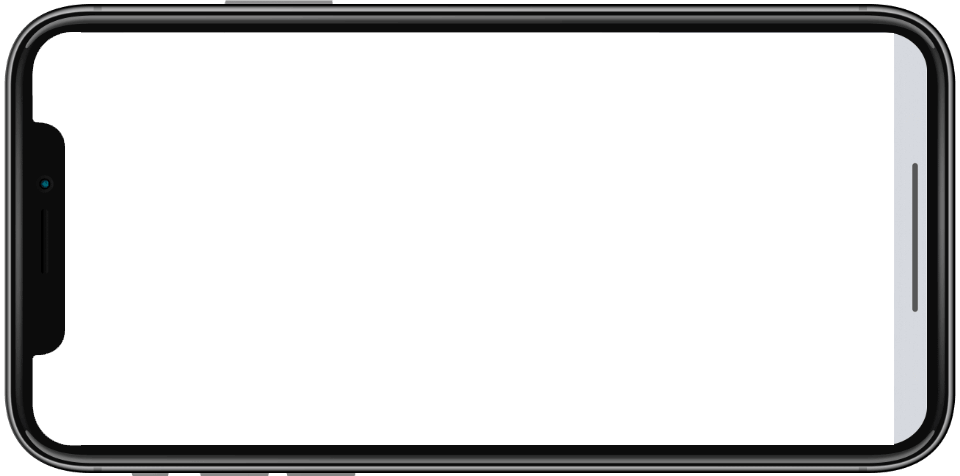
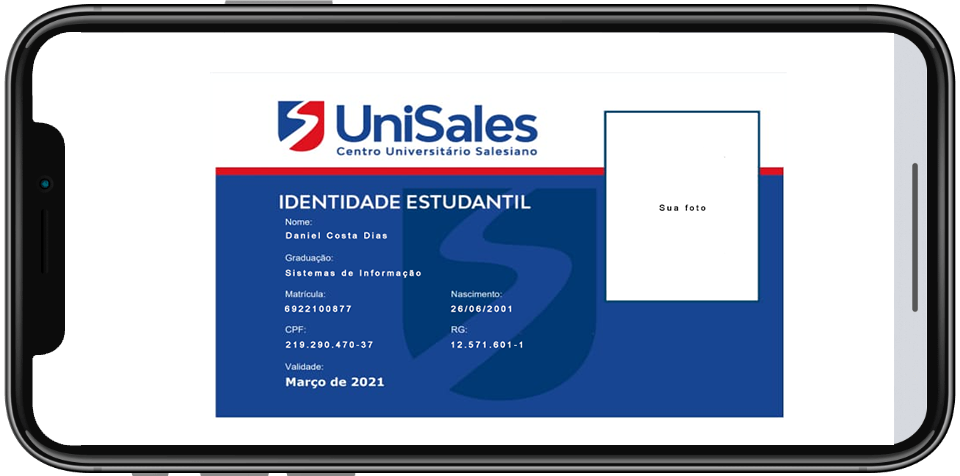
Device horizontal finalizado

Changed region(s): [[0.2188, 0.2059, 0.8438, 0.8824], [0.6875, 0.4118, 0.75, 0.4412]]

diff --git a/estudante.html b/estudante.html
@@ -58,9 +58,9 @@
 
     <main>
       <div class="position-relative overflow-hidden text-center banner-estudante texto-banner">
-        <div class="col-md-5 p-lg-5 mx-auto my-5">
-          <h1 class="display-4 uk-text-bold uk-h1-titulo">Estudante</h1>
-          <p class="lead fw-normal">Lorem Ipsum is simply dummy text of the printing and typesetting industry. Lorem Ipsum has been the industry's standard dummy text ever since the 1500s.</p>
+        <div class="col-md-6 p-lg-5 mx-auto my-5">
+          <h1 class="display-4 uk-text-bold uk-h1-titulo">Educonnect – para estudantes</h1>
+          <p class="lead fw-normal text-center">Uma nova forma de acompanhar sua jornada acadêmica </p>
         </div>
         <div class="product-device shadow-sm d-none d-md-block"></div>
         <div class="product-device product-device-2 shadow-sm d-none d-md-block"></div>
@@ -69,8 +69,8 @@
 <conteudo>
   <div class="row jumbotron-l teste">
     <div class="col-md-5 text-center pt-5 format-text-pl">
-      <h1 class="section-title uk-text-bold uk-h1">Texto sobre a configuração do estudante</h1>
-      <p class="p-text">Lorem Ipsum is simply dummy text of the printing and typesetting industry. Lorem Ipsum has been the industry's standard dummy text ever since the 1500s, when an unknown printer took a galley of type and scrambled it to make a type specimen book. It has survived not only five centuries, but also the leap into electronic typesetting, remaining essentially unchanged. It was popularised in the 1960s with the release of Letraset sheets containing Lorem Ipsum passages, and more recently with desktop publishing software.</p>
+      <h1 class="section-title uk-text-bold uk-h1">Baixe o aplicativo e configure </h1>
+      <p class="p-text mt-5">Não perca tempo, adquira já o passaporte para sua nova interação com sua jornada acadêmica. Baixe o aplicativo Meu Educonnect em sua loja de aplicativos e configure-o lendo o QR Code ao lado.</p>
     </div>
     <div class="col-md-7 text-center">
       <figure class="figure">
@@ -85,12 +85,13 @@
   <div class="row jumbotron-l">
     <div class="col-md-7 text-center">
       <figure class="figure  d-md-block">
-        <img class="img-device-horizontal" src="img/model-device6.png" alt="EduConnect">
+        <img class="img-device-horizontal " src="img/model-device7.png" alt="EduConnect">
       </figure>
     </div>
     <div class="col-md-5 text-center  format-text-pr">
-      <h1 class="section-title uk-text-bold uk-h1">Minha carterinha</h1>
-      <p class="">Lorem Ipsum is simply dummy text of the printing and typesetting industry. Lorem Ipsum has been the industry's standard dummy text ever since the 1500s, when an unknown printer took a galley of type and scrambled it to make a type specimen book. It has survived not only five centuries, but also the leap into electronic typesetting, remaining essentially unchanged. It was popularised in the 1960s with the release of Letraset sheets containing Lorem Ipsum passages, and more recently with desktop publishing software.</p>
+      <h1 class="section-title uk-text-bold uk-h1">Carteirinha Digital</h1>
+      <p class="text-center mt-5">“Meu Deus, esqueci minha carteirinha em casa”.</p>
+      <p>Quantas vezes ela esqueceu o seu celular em casa? Poucas vezes, né? É pensando nisso que o Unisales mais uma vez decidiu dar um passo à frente e lançar a nova carteirinha digital. Com ela, você possui os mesmos direitos de acesso a meia entrada em shows, cinemas e etc, além de acesso ao nosso campus. </p>
     </div>
     <!-- Celular -->
     
@@ -100,7 +101,7 @@
   <div class="row jumbotron-p">
     <div class="col-md-5 pt-5 text-center format-text-pl ">
       <h1 class="section-title uk-text-bold uk-h1">Mais texto sobre o app</h1>
-      <p class="texto">Lorem Ipsum is simply dummy text of the printing and typesetting industry. Lorem Ipsum has been the industry's standard dummy text ever since the 1500s, when an unknown printer took a galley of type and scrambled it to make a type specimen book. It has survived not only five centuries, but also the leap into electronic typesetting, remaining essentially unchanged. It was popularised in the 1960s with the release of Letraset sheets containing Lorem Ipsum passages, and more recently with desktop publishing software.</p>
+      <p class="texto mt-5">Lorem Ipsum is simply dummy text of the printing and typesetting industry. Lorem Ipsum has been the industry's standard dummy text ever since the 1500s, when an unknown printer took a galley of type and scrambled it to make a type specimen book. It has survived not only five centuries, but also the leap into electronic typesetting, remaining essentially unchanged. It was popularised in the 1960s with the release of Letraset sheets containing Lorem Ipsum passages, and more recently with desktop publishing software.</p>
     </div>
     <div class="col-md-7 text-center">
       <div class="div-video ratio ratio-16x9">

diff --git a/index.html b/index.html
@@ -59,9 +59,9 @@
 
 <main>
   <div class="position-relative overflow-hidden text-center banner texto-banner">
-    <div class="col-md-5 p-lg-5 mx-auto my-5 ">
-      <h1 class="display-4 uk-text-bold uk-h1-titulo ">eduCONNECT</h1>
-      <p class="lead fw-normal">Lorem Ipsum is simply dummy text of the printing and typesetting industry. Lorem Ipsum has been the industry's standard dummy text ever since the 1500s.</p>
+    <div class="col-md-6 p-lg-5 mx-auto my-5 ">
+      <h1 class="display-4 uk-text-bold uk-h1-titulo ">Educonnect</h1>
+      <p class="lead fw-normal text-center">Uma nova forma de acompanhar sua jornada acadêmica</p>
     </div>
     <div class="product-device shadow-sm d-none d-md-block"></div>
     <div class="product-device product-device-2 shadow-sm d-none d-md-block"></div>
@@ -69,9 +69,17 @@
 </main>
 <conteudo>
   <div class="row jumbotron-l teste">
-    <div class="col-md-5 text-center pt-5 format-text-pl">
-      <h1 class="section-title uk-text-bold uk-h1">Texto sobre o app</h1>
-      <p class="">Lorem Ipsum is simply dummy text of the printing and typesetting industry. Lorem Ipsum has been the industry's standard dummy text ever since the 1500s, when an unknown printer took a galley of type and scrambled it to make a type specimen book. It has survived not only five centuries, but also the leap into electronic typesetting, remaining essentially unchanged. It was popularised in the 1960s with the release of Letraset sheets containing Lorem Ipsum passages, and more recently with desktop publishing software.</p>
+    <div class="col-md-5  pt-5 format-text-pl">
+      <h1 class="section-title uk-text-bold uk-h1 text-center">Praticidade e agilidade no acesso a suas informações</h1>
+      <p class="text-center mt-5">O Unisales inovou e decidiu trazer para o dia a dia dos alunos o aplicativo EduConnect. Um aplicativo simples e intuitivo que o permite realizar diversas atividades como:</p>
+      <ul class="lista">
+        <li><i class="fas fa-caret-right text-danger"></i> Acompanhar suas notas e frequências;</li>
+        <li><i class="fas fa-caret-right text-danger"></i> Realizar solicitações de secretaria;</li>
+        <li><i class="fas fa-caret-right text-danger"></i> Visualizar quadro de horários de suas disciplinas;</li>
+        <li><i class="fas fa-caret-right text-danger"></i> Consultar seu histórico de disciplinas cursadas;</li>
+        <li><i class="fas fa-caret-right text-danger"></i> Geração de relatórios na palma da mão;</li>
+        <li><i class="fas fa-caret-right text-danger"></i> E muito mais.</li>
+      </ul>
     </div>
     <!-- Celular -->
     <div class="col-md-7 text-center">
@@ -89,9 +97,9 @@
         <iframe class="video" src="https://www.youtube.com/embed/0roUQRp1yZs" frameborder="0" allow="accelerometer; autoplay; clipboard-write; encrypted-media; gyroscope; picture-in-picture" allowfullscreen></iframe>
       </div>
     </div>
-    <div class="col-md-5 pt-5 format-text-pr">
+    <div class="col-md-5 pt-5 text-center format-text-pr">
       <h1 class="section-title uk-text-bold uk-h1">Mais texto sobre o app</h1>
-      <p class="">Lorem Ipsum is simply dummy text of the printing and typesetting industry. Lorem Ipsum has been the industry's standard dummy text ever since the 1500s, when an unknown printer took a galley of type and scrambled it to make a type specimen book. It has survived not only five centuries, but also the leap into electronic typesetting, remaining essentially unchanged. It was popularised in the 1960s with the release of Letraset sheets containing Lorem Ipsum passages, and more recently with desktop publishing software.</p>
+      <p class="mt-5">Lorem Ipsum is simply dummy text of the printing and typesetting industry. Lorem Ipsum has been the industry's standard dummy text ever since the 1500s, when an unknown printer took a galley of type and scrambled it to make a type specimen book. It has survived not only five centuries, but also the leap into electronic typesetting, remaining essentially unchanged. It was popularised in the 1960s with the release of Letraset sheets containing Lorem Ipsum passages, and more recently with desktop publishing software.</p>
     </div>
   </div>
 </main>

diff --git a/educador.html b/educador.html
@@ -57,9 +57,9 @@
     </header>
 <main>
   <div class="position-relative overflow-hidden text-center banner-educador texto-banner">
-    <div class="col-md-5 p-lg-5 mx-auto my-5">
-      <h1 class="display-4 uk-text-bold uk-h1-titulo">Educador</h1>
-      <p class="lead fw-normal">Lorem Ipsum is simply dummy text of the printing and typesetting industry. Lorem Ipsum has been the industry's standard dummy text ever since the 1500s.</p>
+    <div class="col-md-6 p-lg-5 mx-auto my-5">
+      <h1 class="display-4 uk-text-bold uk-h1-titulo">Educonnect – para educadores</h1>
+      <p class="lead fw-normal text-center">Lorem Ipsum is simply dummy text of the printing and typesetting industry.</p>
     </div>
     <div class="product-device shadow-sm d-none d-md-block"></div>
     <div class="product-device product-device-2 shadow-sm d-none d-md-block"></div>
@@ -69,7 +69,7 @@
   <div class="row jumbotron-l teste">
     <div class="col-md-5 text-center pt-5 format-text-pl">
       <h1 class="section-title uk-text-bold uk-h1">Texto sobre a configuração do educador</h1>
-      <p class="p-text">Lorem Ipsum is simply dummy text of the printing and typesetting industry. Lorem Ipsum has been the industry's standard dummy text ever since the 1500s, when an unknown printer took a galley of type and scrambled it to make a type specimen book. It has survived not only five centuries, but also the leap into electronic typesetting, remaining essentially unchanged. It was popularised in the 1960s with the release of Letraset sheets containing Lorem Ipsum passages, and more recently with desktop publishing software.</p>
+      <p class="p-text mt-5">Lorem Ipsum is simply dummy text of the printing and typesetting industry. Lorem Ipsum has been the industry's standard dummy text ever since the 1500s, when an unknown printer took a galley of type and scrambled it to make a type specimen book. It has survived not only five centuries, but also the leap into electronic typesetting, remaining essentially unchanged. It was popularised in the 1960s with the release of Letraset sheets containing Lorem Ipsum passages, and more recently with desktop publishing software.</p>
     </div>
     <div class="col-md-7 text-center">
       <figure class="figure">
@@ -86,9 +86,9 @@
         <iframe class="video" src="https://www.youtube.com/embed/0roUQRp1yZs" frameborder="0" allow="accelerometer; autoplay; clipboard-write; encrypted-media; gyroscope; picture-in-picture" allowfullscreen></iframe>
       </div>
     </div>
-    <div class="col-md-5 pt-5 format-text-pr">
+    <div class="col-md-5 pt-5 text-center format-text-pr">
       <h1 class="section-title uk-text-bold uk-h1">Mais texto sobre o app</h1>
-      <p class="texto">Lorem Ipsum is simply dummy text of the printing and typesetting industry. Lorem Ipsum has been the industry's standard dummy text ever since the 1500s, when an unknown printer took a galley of type and scrambled it to make a type specimen book. It has survived not only five centuries, but also the leap into electronic typesetting, remaining essentially unchanged. It was popularised in the 1960s with the release of Letraset sheets containing Lorem Ipsum passages, and more recently with desktop publishing software.</p>
+      <p class="texto mt-5">Lorem Ipsum is simply dummy text of the printing and typesetting industry. Lorem Ipsum has been the industry's standard dummy text ever since the 1500s, when an unknown printer took a galley of type and scrambled it to make a type specimen book. It has survived not only five centuries, but also the leap into electronic typesetting, remaining essentially unchanged. It was popularised in the 1960s with the release of Letraset sheets containing Lorem Ipsum passages, and more recently with desktop publishing software.</p>
     </div>
   </div>
   

diff --git a/css/Style.css b/css/Style.css
@@ -2,7 +2,7 @@
    * Custom translucent site header
    */
    body{
-    font-family:'Potta One', cursive;
+    font-family:'Montserrat',sans-serif;
     width:100%;
   }
  /* Header */
@@ -202,7 +202,7 @@
  text-align: justify;
 
 }
-.jumbotron-p p{
+.jumbotron-p p, .lista li{
   color:#464f70;
   font-weight: 700;
   text-align: justify;
@@ -240,7 +240,7 @@
 }
 @media (min-width: 768px){
   .format-text-pr{
-    padding-right: 3rem !important;
+    padding-right: 5rem !important;
 
   }
 }
@@ -249,4 +249,7 @@
     padding-left: 3rem !important;
 
   }
+}
+.lista{
+  list-style: none;
 }
